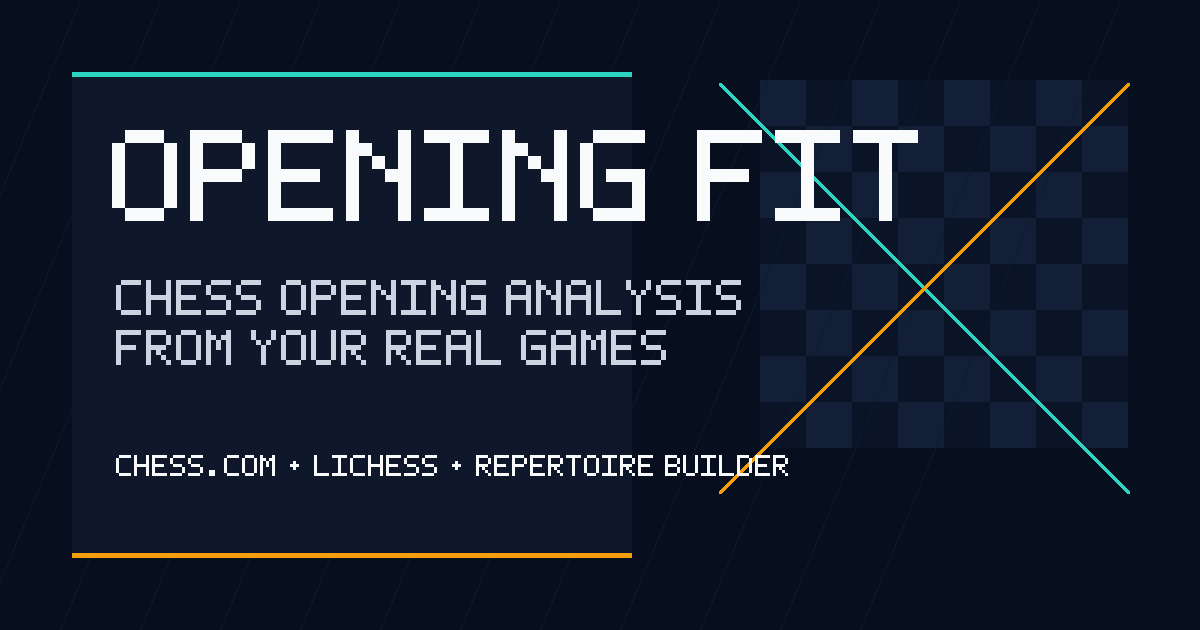
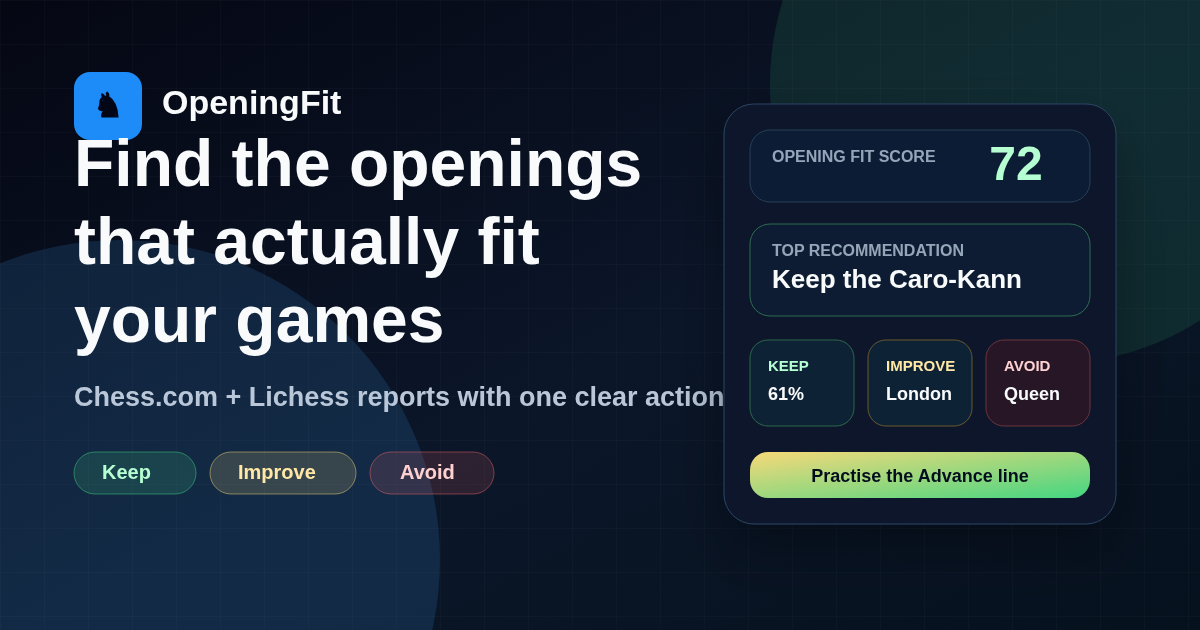
Align hero preview and share branding

diff --git a/frontend/src/App.css b/frontend/src/App.css
@@ -40894,6 +40894,213 @@ body,
   color: var(--app-text-soft);
 }
 
+.appPrimaryBrand::before {
+  background:
+    linear-gradient(135deg, rgba(255, 255, 255, 0.16), transparent),
+    url("/icons/openingfit-icon.svg") center / 100% 100% no-repeat !important;
+  background-color: transparent !important;
+  box-shadow:
+    0 12px 28px rgba(29, 140, 248, 0.28),
+    0 0 0 1px rgba(255, 255, 255, 0.18) !important;
+}
+
+.analyseHeroVisual {
+  min-height: 286px !important;
+  display: grid !important;
+  grid-template-rows: auto auto auto 1fr auto;
+  gap: 10px;
+  padding: 18px;
+  background:
+    radial-gradient(circle at 85% 18%, rgba(68, 214, 130, 0.18), transparent 32%),
+    radial-gradient(circle at 12% 80%, rgba(73, 168, 255, 0.18), transparent 38%),
+    linear-gradient(135deg, rgba(8, 13, 25, 0.94), rgba(13, 24, 43, 0.88)),
+    rgba(255, 255, 255, 0.055) !important;
+}
+
+.analyseHeroVisual::before {
+  content: "";
+  position: absolute;
+  inset: 0;
+  pointer-events: none;
+  opacity: 0.14;
+  background-image:
+    linear-gradient(rgba(255, 255, 255, 0.18) 1px, transparent 1px),
+    linear-gradient(90deg, rgba(255, 255, 255, 0.18) 1px, transparent 1px);
+  background-size: 34px 34px;
+  mask-image: linear-gradient(135deg, black, transparent 76%);
+}
+
+.analyseHeroVisualTop,
+.analyseHeroPreviewHeader,
+.analyseHeroRecommendation,
+.analyseHeroVerdictGrid,
+.analyseHeroPreviewBars,
+.analyseHeroAction {
+  position: relative !important;
+  z-index: 1;
+}
+
+.analyseHeroVisualTop {
+  position: relative !important;
+  inset: auto !important;
+}
+
+.analyseHeroPreviewHeader {
+  display: flex;
+  justify-content: space-between;
+  align-items: stretch;
+  gap: 12px;
+}
+
+.analyseHeroPreviewHeader div,
+.analyseHeroRecommendation,
+.analyseHeroAction {
+  border: 1px solid rgba(73, 168, 255, 0.22);
+  border-radius: 16px;
+  background: rgba(5, 7, 13, 0.62);
+  box-shadow: 0 12px 30px rgba(0, 0, 0, 0.20);
+}
+
+.analyseHeroPreviewHeader div {
+  min-width: 118px;
+  display: grid;
+  gap: 2px;
+  padding: 11px 13px;
+}
+
+.analyseHeroPreviewHeader span,
+.analyseHeroRecommendation span,
+.analyseHeroAction span,
+.analyseHeroVerdictGrid span {
+  color: var(--app-muted);
+  font-size: 0.68rem;
+  font-weight: 950;
+  text-transform: uppercase;
+}
+
+.analyseHeroPreviewHeader strong {
+  color: #b6ffd2;
+  font-size: 2.25rem;
+  line-height: 0.95;
+}
+
+.analyseHeroPreviewHeader small {
+  align-self: center;
+  min-height: 28px;
+  display: inline-flex;
+  align-items: center;
+  padding: 5px 10px;
+  border: 1px solid rgba(73, 168, 255, 0.28);
+  border-radius: 999px;
+  background: rgba(73, 168, 255, 0.14);
+  color: #d9eeff;
+  font-size: 0.72rem;
+  font-weight: 900;
+}
+
+.analyseHeroRecommendation {
+  display: grid;
+  gap: 4px;
+  padding: 12px 13px;
+  border-color: rgba(68, 214, 130, 0.30);
+}
+
+.analyseHeroRecommendation strong,
+.analyseHeroAction strong {
+  color: var(--app-text);
+  font-size: 0.98rem;
+}
+
+.analyseHeroRecommendation small {
+  color: #b6ffd2;
+  font-size: 0.76rem;
+  font-weight: 850;
+}
+
+.analyseHeroVerdictGrid {
+  display: grid;
+  grid-template-columns: repeat(3, minmax(0, 1fr));
+  gap: 8px;
+}
+
+.analyseHeroVerdictGrid div {
+  min-width: 0;
+  display: grid;
+  gap: 4px;
+  padding: 10px;
+  border: 1px solid rgba(255, 255, 255, 0.12);
+  border-radius: 14px;
+  background: rgba(255, 255, 255, 0.065);
+}
+
+.analyseHeroVerdictGrid div:nth-child(1) {
+  border-color: rgba(68, 214, 130, 0.28);
+}
+
+.analyseHeroVerdictGrid div:nth-child(2) {
+  border-color: rgba(243, 201, 105, 0.28);
+}
+
+.analyseHeroVerdictGrid div:nth-child(3) {
+  border-color: rgba(255, 107, 107, 0.26);
+}
+
+.analyseHeroVerdictGrid strong {
+  overflow: hidden;
+  color: var(--app-text);
+  font-size: 0.82rem;
+  text-overflow: ellipsis;
+  white-space: nowrap;
+}
+
+.analyseHeroVerdictGrid small {
+  color: var(--app-text-soft);
+  font-size: 0.7rem;
+  font-weight: 800;
+}
+
+.analyseHeroPreviewBars {
+  display: grid;
+  gap: 8px;
+}
+
+.analyseHeroPreviewBars span {
+  position: relative;
+  overflow: hidden;
+  min-height: 9px;
+  border-radius: 999px;
+  background: rgba(255, 255, 255, 0.10);
+  color: transparent;
+}
+
+.analyseHeroPreviewBars span::after {
+  content: "";
+  position: absolute;
+  inset: 0 auto 0 0;
+  width: var(--bar-width, 50%);
+  border-radius: inherit;
+  background: linear-gradient(90deg, var(--app-green), var(--app-blue));
+}
+
+.analyseHeroAction {
+  display: flex;
+  justify-content: space-between;
+  align-items: center;
+  gap: 10px;
+  padding: 11px 13px;
+  border-color: rgba(243, 201, 105, 0.30);
+}
+
+.analyseHeroAction strong {
+  text-align: right;
+}
+
+@media (max-width: 900px) {
+  .analyseHeroVisual {
+    display: none !important;
+  }
+}
+
 .mobileBottomNav {
   display: none;
 }

diff --git a/frontend/src/App.jsx b/frontend/src/App.jsx
@@ -13275,37 +13275,45 @@ function App() {
               <div className="analyseHeroVisual" aria-hidden="true">
                 <div className="analyseHeroVisualTop">
                   <span>Live report preview</span>
-                  <strong>OpeningFit Dashboard</strong>
+                  <strong>Report for @clubplayer</strong>
                 </div>
-                <div className="analyseHeroPlatformBadges">
-                  <span>Chess.com</span>
-                  <span>Lichess</span>
+                <div className="analyseHeroPreviewHeader">
+                  <div>
+                    <span>Opening Fit Score</span>
+                    <strong>72</strong>
+                  </div>
+                  <small>Analysed from Chess.com</small>
                 </div>
-                <div className="analyseHeroVisualBoard">
-                  <span />
-                  <span />
-                  <span />
-                  <span />
-                  <span />
-                  <span />
-                  <span />
-                  <span />
-                  <strong>72</strong>
+                <div className="analyseHeroRecommendation">
+                  <span>Top recommendation</span>
+                  <strong>Keep the Caro-Kann</strong>
+                  <small>Best recent fit as Black vs e4</small>
                 </div>
-                <div className="analyseHeroScorePills">
-                  <span>Opening Fit Score</span>
-                  <span>Keep</span>
-                  <span>Improve</span>
-                  <span>Avoid</span>
+                <div className="analyseHeroVerdictGrid">
+                  <div>
+                    <span>Keep</span>
+                    <strong>Caro-Kann</strong>
+                    <small>61% score</small>
+                  </div>
+                  <div>
+                    <span>Improve</span>
+                    <strong>London</strong>
+                    <small>3 weak lines</small>
+                  </div>
+                  <div>
+                    <span>Avoid</span>
+                    <strong>Early queen</strong>
+                    <small>Low sample fit</small>
+                  </div>
                 </div>
-                <div className="analyseHeroVisualPanel">
-                  <span>Opening fit</span>
-                  <strong>Caro-Kann</strong>
-                  <small>Train this line</small>
+                <div className="analyseHeroPreviewBars">
+                  <span style={{ "--bar-width": "78%" }}>Opening reliability</span>
+                  <span style={{ "--bar-width": "54%" }}>Tactical conversion</span>
+                  <span style={{ "--bar-width": "38%" }}>Early queen safety</span>
                 </div>
-                <div className="analyseHeroVisualMetric">
-                  <span>Weak spot</span>
-                  <strong>3 losses</strong>
+                <div className="analyseHeroAction">
+                  <span>Recommended action</span>
+                  <strong>Practise the Advance line</strong>
                 </div>
               </div>
               <a

diff --git a/frontend/index.html b/frontend/index.html
@@ -38,6 +38,10 @@
       content="Analyze your Chess.com and Lichess games to discover chess openings that fit your playing style, results, and weaknesses."
     />
     <meta property="og:image" content="https://openingfit.com/og-image.png" />
+    <meta property="og:image:secure_url" content="https://openingfit.com/og-image.png" />
+    <meta property="og:image:width" content="1200" />
+    <meta property="og:image:height" content="630" />
+    <meta property="og:image:alt" content="OpeningFit report preview with logo and opening recommendations" />
 
     <meta name="twitter:card" content="summary_large_image" />
     <meta name="twitter:url" content="https://openingfit.com/" />
@@ -50,6 +54,7 @@
       content="Analyze your Chess.com and Lichess games to discover chess openings that fit your playing style, results, and weaknesses."
     />
     <meta name="twitter:image" content="https://openingfit.com/og-image.png" />
+    <meta name="twitter:image:alt" content="OpeningFit report preview with logo and opening recommendations" />
 
     <script type="application/ld+json">
       {